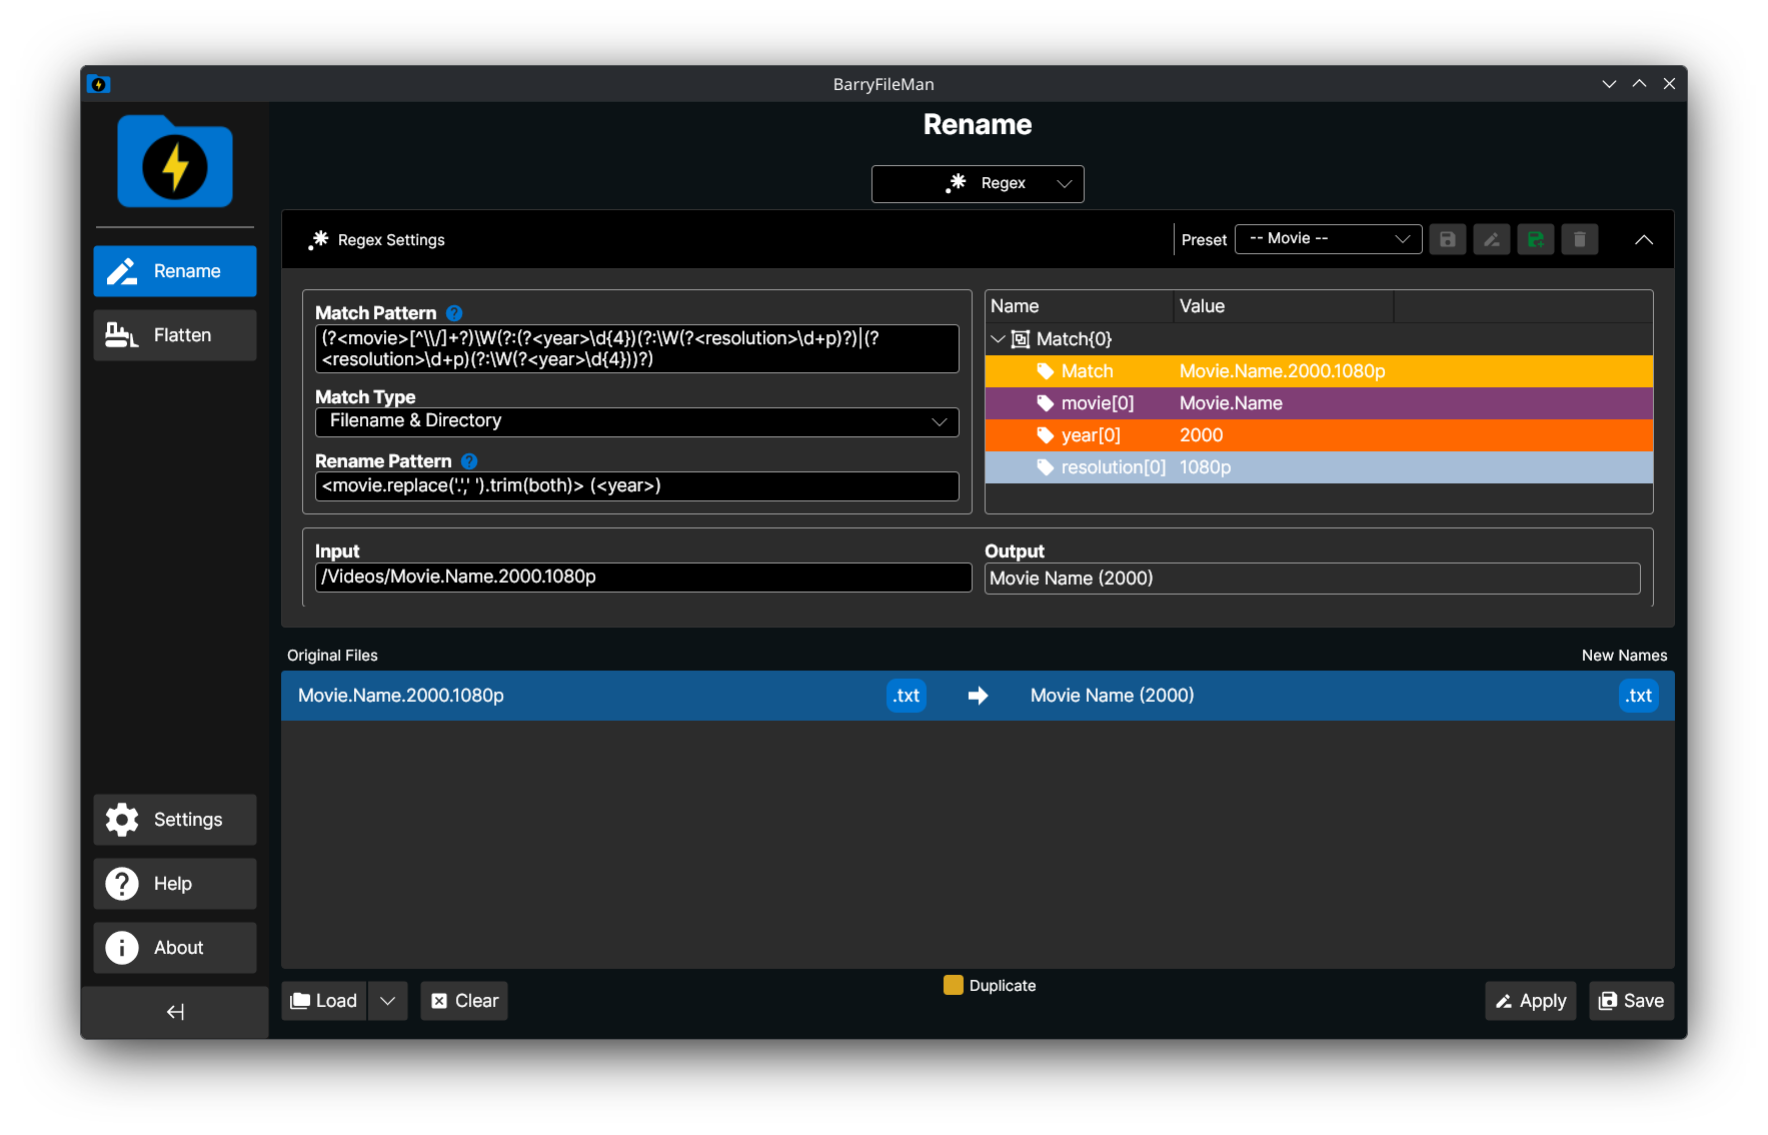
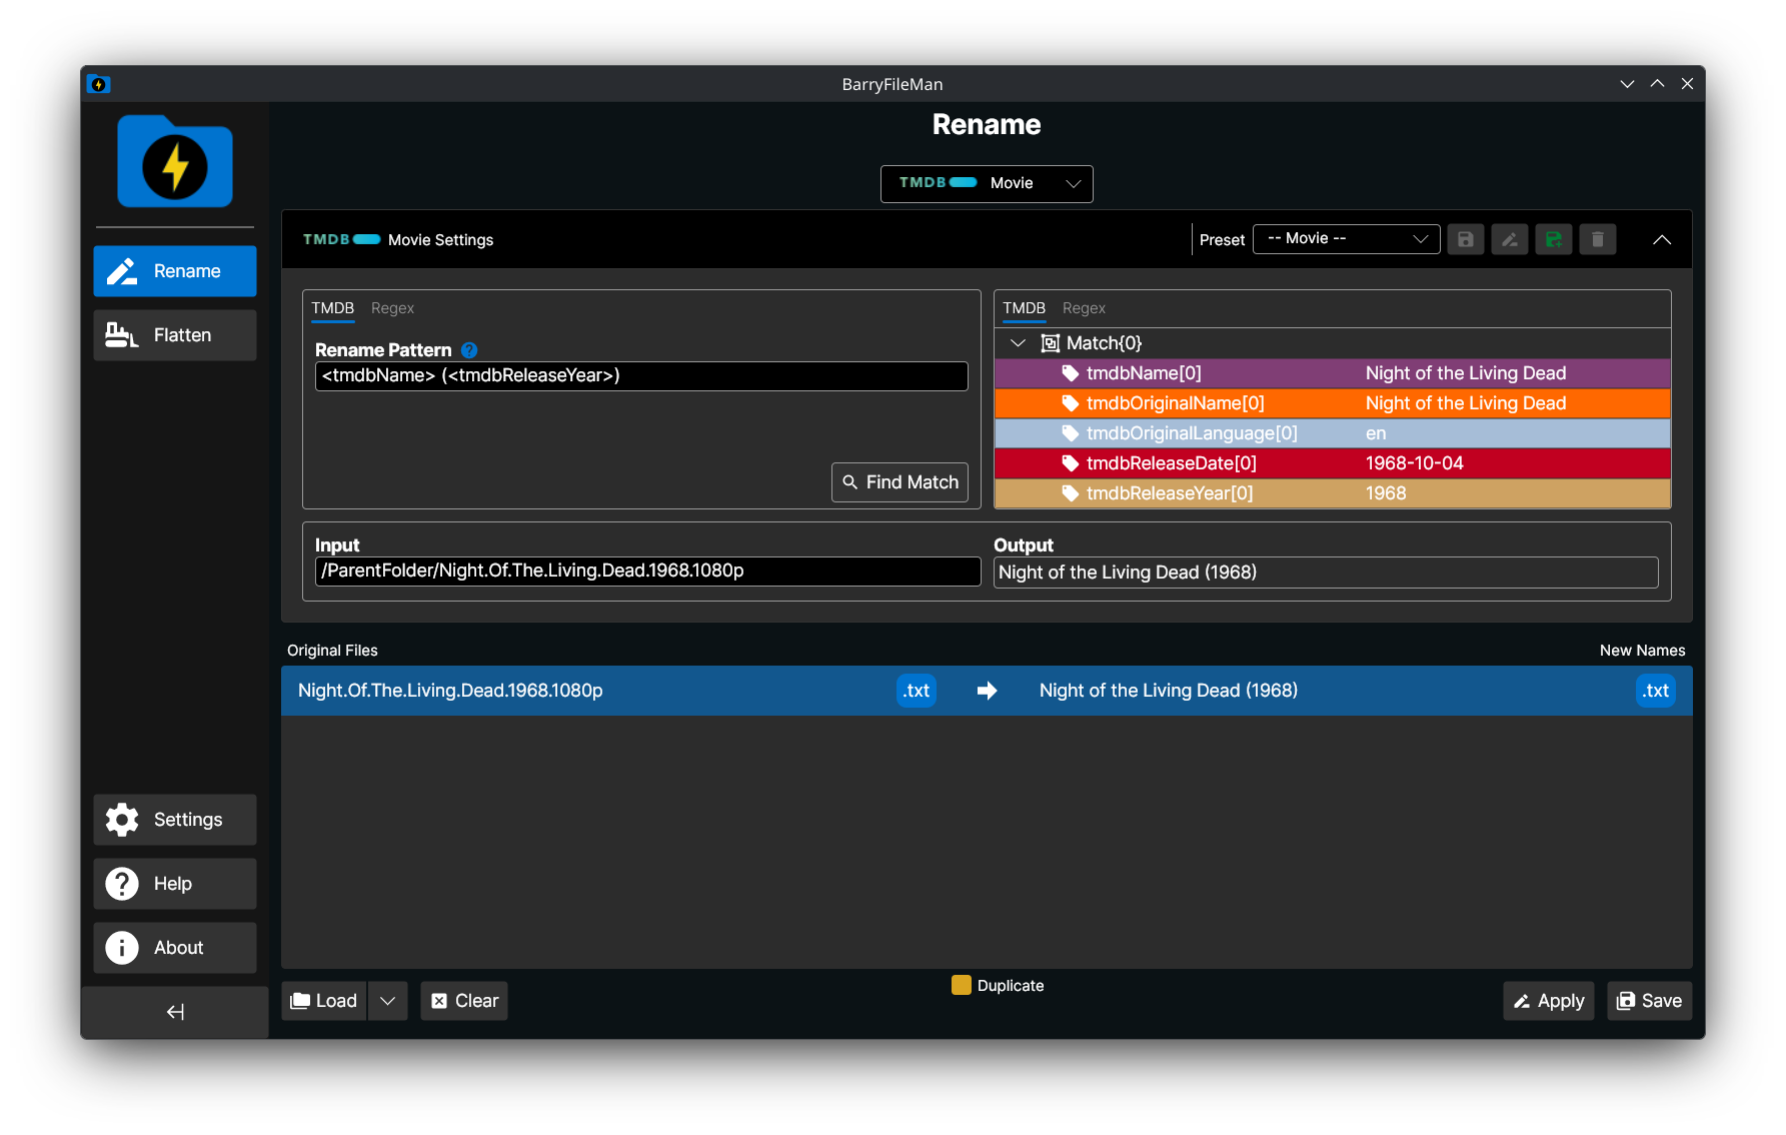
replace TreeDataGrid with TreeView

diff --git a/BarryFileMan/ViewModels/Rename/Providers/BaseRenameProviderViewModel.cs b/BarryFileMan/ViewModels/Rename/Providers/BaseRenameProviderViewModel.cs
@@ -1,6 +1,4 @@
-using Avalonia.Controls.Models.TreeDataGrid;
-using Avalonia.Controls;
-using BarryFileMan.Rename.Interfaces;
+using BarryFileMan.Rename.Interfaces;
 using BarryFileMan.Rename.Models;
 using CommunityToolkit.Mvvm.ComponentModel;
 using System.Collections.Generic;
@@ -118,20 +116,6 @@ namespace BarryFileMan.ViewModels.Rename.Providers
                     }
                 }
             }
-        }
-
-        protected HierarchicalTreeDataGridSource<RenameMatchNodeViewModel> CreateMatchNodeColumns(ObservableCollection<RenameMatchNodeViewModel> matchNodes)
-        {
-            return new(matchNodes)
-            {
-                Columns =
-                {
-                    new HierarchicalExpanderColumn<RenameMatchNodeViewModel>(
-                        new TemplateColumn<RenameMatchNodeViewModel>(Resources.Resources.Name, "MatchNameCell"),
-                        x => x.SubNodes, x => x.HasSubNodes, x=> x.IsExpanded),
-                    new TextColumn<RenameMatchNodeViewModel, string>(Resources.Resources.Value, x => x.Value),
-                }
-            };
         }
 
         protected void HandleDuplicateFilenames()

diff --git a/BarryFileMan/ViewModels/Rename/Providers/BaseRegexRenameProviderViewModel.cs b/BarryFileMan/ViewModels/Rename/Providers/BaseRegexRenameProviderViewModel.cs
@@ -1,5 +1,4 @@
-using Avalonia.Controls;
-using BarryFileMan.Attributes.Validation;
+using BarryFileMan.Attributes.Validation;
 using BarryFileMan.Enums.Rename;
 using BarryFileMan.Rename.Exceptions;
 using BarryFileMan.Rename.Interfaces;
@@ -90,8 +89,6 @@ namespace BarryFileMan.ViewModels.Rename.Providers
 
         [ObservableProperty]
         private ObservableCollection<RenameMatchNodeViewModel> _inputMatchNodes = new();
-
-        public HierarchicalTreeDataGridSource<RenameMatchNodeViewModel> InputMatchNodeColumns => CreateMatchNodeColumns(InputMatchNodes);
 
         public bool HasInputMatches => InputMatches != null && InputMatches.Any();
 

diff --git a/BarryFileMan/ViewModels/Rename/Providers/BaseTMDBRenameProviderViewModel.cs b/BarryFileMan/ViewModels/Rename/Providers/BaseTMDBRenameProviderViewModel.cs
@@ -1,5 +1,4 @@
-using Avalonia.Controls;
-using BarryFileMan.Attributes.Validation;
+using BarryFileMan.Attributes.Validation;
 using BarryFileMan.Managers;
 using BarryFileMan.Rename.Interfaces;
 using CommunityToolkit.Mvvm.ComponentModel;
@@ -102,8 +101,6 @@ namespace BarryFileMan.ViewModels.Rename.Providers
 
         [ObservableProperty]
         private ObservableCollection<RenameMatchNodeViewModel> _tmdbMatchNodes = new();
-
-        public HierarchicalTreeDataGridSource<RenameMatchNodeViewModel> TmdbMatchNodeColumns => CreateMatchNodeColumns(TmdbMatchNodes);
 
         public bool HasTmdbMatches => TmdbMatches != null && TmdbMatches.Any();
 

diff --git a/README.md b/README.md
@@ -7,11 +7,23 @@
 BarryFileMan is a file manager with a primary focus of renaming and managing media files and folders.
 
 <p align="center">
-	<img alt="logo" src="Images/barryfileman-main.png">
+	<img alt="BarryFileMan Main" src="Images/barryfileman-main.png">
+</p>
+
+<p align="center">
+	<img alt="BarryFileMan Settings" src="Images/barryfileman-settings.png">
 </p>
 
 ## Build
 pupnet --runtime linux-x64 --kind appimage
+
+## Acknowledgements
+
+<a href="https://www.themoviedb.org" target="_blank">
+	<img alt="The Movie Database (TMDb)" src="BarryFileMan/Assets/tmdb-alt-short-logo.64x8.png">
+</a>
+
+This application uses TMDB and the TMDB APIs but is not endorsed, certified, or otherwise approved by TMDB.
 
 ## License
 
